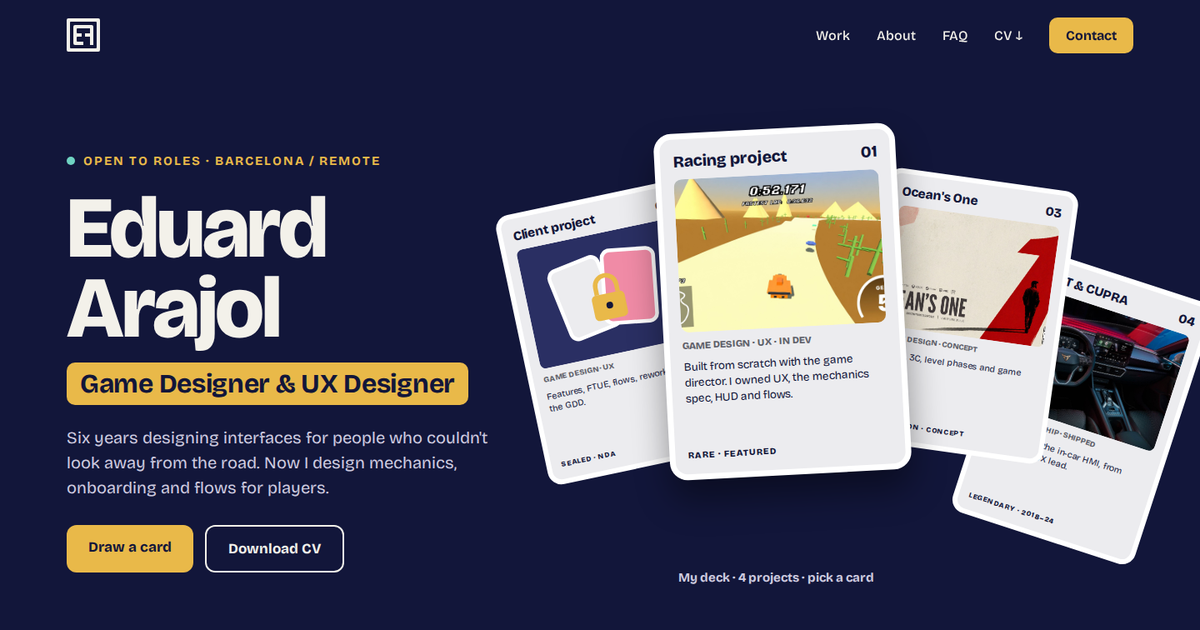
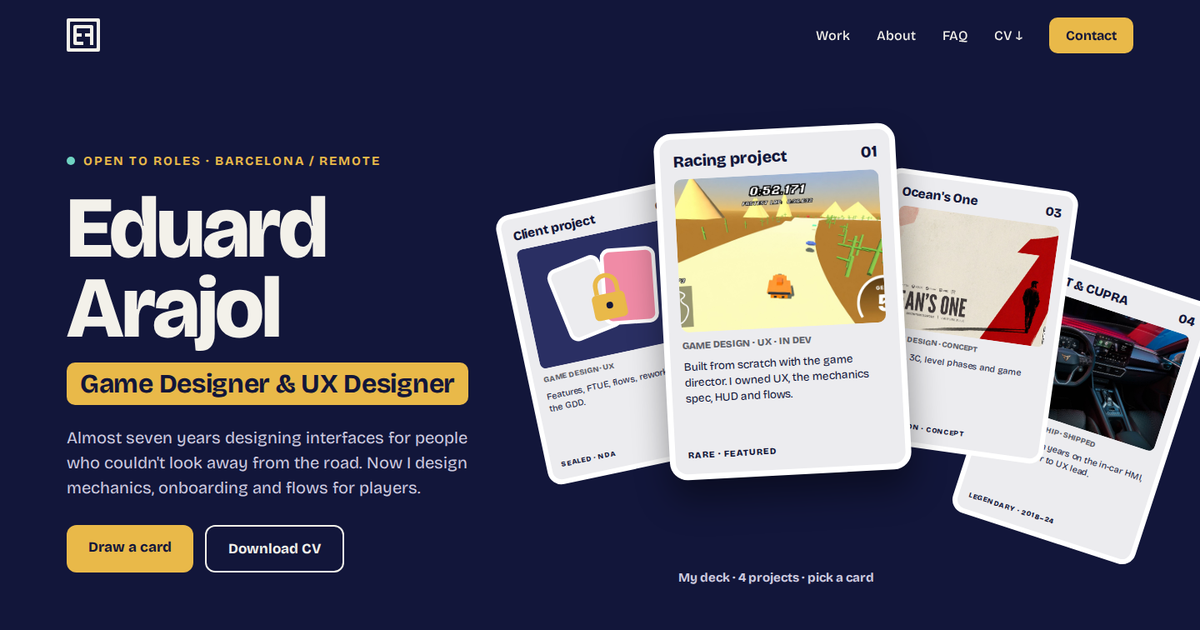
Say "almost seven years" for the SEAT & CUPRA period
Claude-Session: https://claude.ai/code/session_0185bSy85oySeZbow2uKzywA

Changed region(s): [[0.0617, 0.6635, 0.4008, 0.7841], [0.8633, 0.6937, 0.9558, 0.754]]

diff --git a/index.html b/index.html
@@ -4,12 +4,12 @@
 <meta charset="utf-8">
 <meta name="viewport" content="width=device-width, initial-scale=1">
 <title>Eduard Arajol · Game &amp; UX Designer</title>
-<meta name="description" content="Portfolio of Eduard Arajol, Game Designer and UX Designer in Barcelona. Six years on the SEAT &amp; CUPRA in-car HMI, now designing mechanics, onboarding and flows for games.">
+<meta name="description" content="Portfolio of Eduard Arajol, Game Designer and UX Designer in Barcelona. Almost seven years on the SEAT &amp; CUPRA in-car HMI, now designing mechanics, onboarding and flows for games.">
 <link rel="canonical" href="https://eduarajol.github.io/">
 <link rel="icon" href="favicon.svg" type="image/svg+xml">
 <meta property="og:type" content="website">
 <meta property="og:title" content="Eduard Arajol · Game &amp; UX Designer">
-<meta property="og:description" content="Portfolio of Eduard Arajol, Game Designer and UX Designer in Barcelona. Six years on the SEAT &amp; CUPRA in-car HMI, now designing mechanics, onboarding and flows for games.">
+<meta property="og:description" content="Portfolio of Eduard Arajol, Game Designer and UX Designer in Barcelona. Almost seven years on the SEAT &amp; CUPRA in-car HMI, now designing mechanics, onboarding and flows for games.">
 <meta property="og:url" content="https://eduarajol.github.io/">
 <meta property="og:image" content="https://eduarajol.github.io/og.png">
 <meta name="twitter:card" content="summary_large_image">
@@ -86,7 +86,7 @@ a{color:#F3F1EA}a:hover{color:#E9B949}
 <h1 class="m-h1" style="margin: 0; font-weight: 800; font-size: 104px; line-height: 0.92; letter-spacing: -3px">Eduard Arajol</h1>
 <div class="m-role" style="align-self: flex-start; padding: 6px 16px; background: #E9B949; color: #12163A; border-radius: 10px; font-weight: 700; font-size: 32px; letter-spacing: -0.3px">Game Designer &amp; UX Designer</div>
 </div>
-<p style="margin: 0; font-size: 20px; line-height: 1.5; color: #CFCCE0">Six years designing interfaces for people who couldn't look away from the road. Now I design mechanics, onboarding and flows for players.</p>
+<p style="margin: 0; font-size: 20px; line-height: 1.5; color: #CFCCE0">Almost seven years designing interfaces for people who couldn't look away from the road. Now I design mechanics, onboarding and flows for players.</p>
 <div class="m-hero-btns" style="display: flex; gap: 14px; margin-top: 6px">
 <a class="h-btn h-yellow" href="#deck" style="text-decoration: none; padding: 16px 26px; background: #E9B949; color: #12163A; border-radius: 12px; font-weight: 700; font-size: 17px">Draw a card</a>
 <a class="h-btn h-outline-light" href="Eduard_Arajol_CV.pdf" target="_blank" rel="noopener" style="text-decoration: none; padding: 16px 26px; border: 2px solid #F3F1EA; border-radius: 12px; font-weight: 700; font-size: 17px">Download CV</a>
@@ -112,7 +112,7 @@ a{color:#F3F1EA}a:hover{color:#E9B949}
 <div style="display: flex; justify-content: space-between; font-weight: 800; font-size: 15.33px"><span>SEAT &amp; CUPRA</span><span>04</span></div>
 <div style="height: 145.67px; flex-shrink: 0; border-radius: 7.67px; overflow: hidden"><img src="img/cupra/cockpit.jpg" alt="CUPRA cockpit with the infotainment screen" style="width: 100%; height: 100%; object-fit: cover; display: block"></div>
 <div style="font-size: 9.2px; font-weight: 800; color: #5E5F69">UX · LEADERSHIP · SHIPPED</div>
-<div style="font-size: 10.73px; line-height: 1.4">Six years on the in-car HMI, from designer to UX lead.</div>
+<div style="font-size: 10.73px; line-height: 1.4">Almost seven years on the in-car HMI, from designer to UX lead.</div>
 <div style="margin-top: auto; font-size: 8.43px; font-weight: 800; letter-spacing: 0.77px">LEGENDARY · 2018–24</div>
 </a>
 <a class="m-fan-card m-fan-c1" href="#c1" style="width: 290px; height: 415.67px; flex-shrink: 0; box-sizing: border-box; background: #ECECEF; color: #12163A; border: 7.73px solid #FFFFFF; border-radius: 21.27px; padding: 15.47px; display: flex; flex-direction: column; gap: 9.67px; text-decoration: none; overflow: hidden; position: absolute; left: 170px; top: 30px; transform: rotate(-3deg); box-shadow: 0 24px 40px rgba(0,0,0,0.4); z-index: 3">
@@ -201,7 +201,7 @@ a{color:#F3F1EA}a:hover{color:#E9B949}
 <div style="display: flex; justify-content: space-between; font-weight: 800; font-size: 14px"><span>SEAT &amp; CUPRA</span><span>04</span></div>
 <div style="height: 133px; flex-shrink: 0; border-radius: 7px; overflow: hidden"><img src="img/cupra/cockpit.jpg" alt="CUPRA cockpit with the infotainment screen" style="width: 100%; height: 100%; object-fit: cover; display: block"></div>
 <div style="font-size: 8.4px; font-weight: 800; color: #5E5F69">UX · LEADERSHIP · SHIPPED</div>
-<div style="font-size: 9.8px; line-height: 1.4">Six years on the in-car HMI, from designer to UX lead.</div>
+<div style="font-size: 9.8px; line-height: 1.4">Almost seven years on the in-car HMI, from designer to UX lead.</div>
 <div style="margin-top: auto; font-size: 7.7px; font-weight: 800; letter-spacing: 0.7px">LEGENDARY · 2018–24</div>
 </div>
 <div style="display: flex; flex-direction: column; gap: 12px">

diff --git a/seat-cupra-hmi.html b/seat-cupra-hmi.html
@@ -4,12 +4,12 @@
 <meta charset="utf-8">
 <meta name="viewport" content="width=device-width, initial-scale=1">
 <title>SEAT &amp; CUPRA HMI · Eduard Arajol</title>
-<meta name="description" content="Six years on the SEAT &amp; CUPRA in-car infotainment, from UI/UX designer to UX lead.">
+<meta name="description" content="Almost seven years on the SEAT &amp; CUPRA in-car infotainment, from UI/UX designer to UX lead.">
 <link rel="canonical" href="https://eduarajol.github.io/seat-cupra-hmi.html">
 <link rel="icon" href="favicon.svg" type="image/svg+xml">
 <meta property="og:type" content="website">
 <meta property="og:title" content="SEAT &amp; CUPRA HMI · Eduard Arajol">
-<meta property="og:description" content="Six years on the SEAT &amp; CUPRA in-car infotainment, from UI/UX designer to UX lead.">
+<meta property="og:description" content="Almost seven years on the SEAT &amp; CUPRA in-car infotainment, from UI/UX designer to UX lead.">
 <meta property="og:url" content="https://eduarajol.github.io/seat-cupra-hmi.html">
 <meta property="og:image" content="https://eduarajol.github.io/og.png">
 <meta name="twitter:card" content="summary_large_image">
@@ -84,13 +84,13 @@ a{color:#F3F1EA}a:hover{color:#E9B949}
 <div style="display: flex; justify-content: space-between; font-weight: 800; font-size: 20px"><span>SEAT &amp; CUPRA</span><span>04</span></div>
 <div style="height: 190px; flex-shrink: 0; border-radius: 10px; overflow: hidden"><img src="img/cupra/cockpit.jpg" alt="CUPRA cockpit with the infotainment screen" style="width: 100%; height: 100%; object-fit: cover; display: block"></div>
 <div style="font-size: 12px; font-weight: 800; color: #5E5F69">UX · LEADERSHIP · SHIPPED</div>
-<div style="font-size: 14px; line-height: 1.4">Six years on the in-car HMI, from designer to UX lead.</div>
+<div style="font-size: 14px; line-height: 1.4">Almost seven years on the in-car HMI, from designer to UX lead.</div>
 <div style="margin-top: auto; font-size: 11px; font-weight: 800; letter-spacing: 1px">LEGENDARY · 2018–24</div>
 </div>
 <div style="flex-grow: 1; display: flex; flex-direction: column; gap: 22px">
 <div style="font-weight: 700; font-size: 14px; letter-spacing: 2px; color: #E9B949">2018 — 2024 · SHIPPED</div>
 <h1 class="m-ph1" style="margin: 0; font-weight: 800; font-size: 88px; line-height: 0.95; letter-spacing: -2.5px">SEAT &amp; CUPRA HMI</h1>
-<p class="m-plead" style="margin: 0; max-width: 720px; font-size: 21px; line-height: 1.5; color: #CFCCE0">Six years designing the in-car infotainment for SEAT and CUPRA, first as UI/UX Designer and then leading the UX team. Interfaces for people who can only spare a glance.</p>
+<p class="m-plead" style="margin: 0; max-width: 720px; font-size: 21px; line-height: 1.5; color: #CFCCE0">Almost seven years designing the in-car infotainment for SEAT and CUPRA, first as UI/UX Designer and then leading the UX team. Interfaces for people who can only spare a glance.</p>
 <div class="m-facts" style="display: grid; grid-template-columns: repeat(4, minmax(0, 1fr)); gap: 16px; margin-top: 8px">
 <div style="padding: 16px 18px; background: #1A1F4D; border-radius: 14px; display: flex; flex-direction: column; gap: 6px"><div style="font-size: 12px; font-weight: 700; letter-spacing: 2px; color: #9AA3C7">ROLE</div><div style="font-weight: 700; font-size: 16px">UI/UX → Lead UX Designer</div></div>
 <div style="padding: 16px 18px; background: #1A1F4D; border-radius: 14px; display: flex; flex-direction: column; gap: 6px"><div style="font-size: 12px; font-weight: 700; letter-spacing: 2px; color: #9AA3C7">PERIOD</div><div style="font-weight: 700; font-size: 16px">2018 — 2024</div></div>
